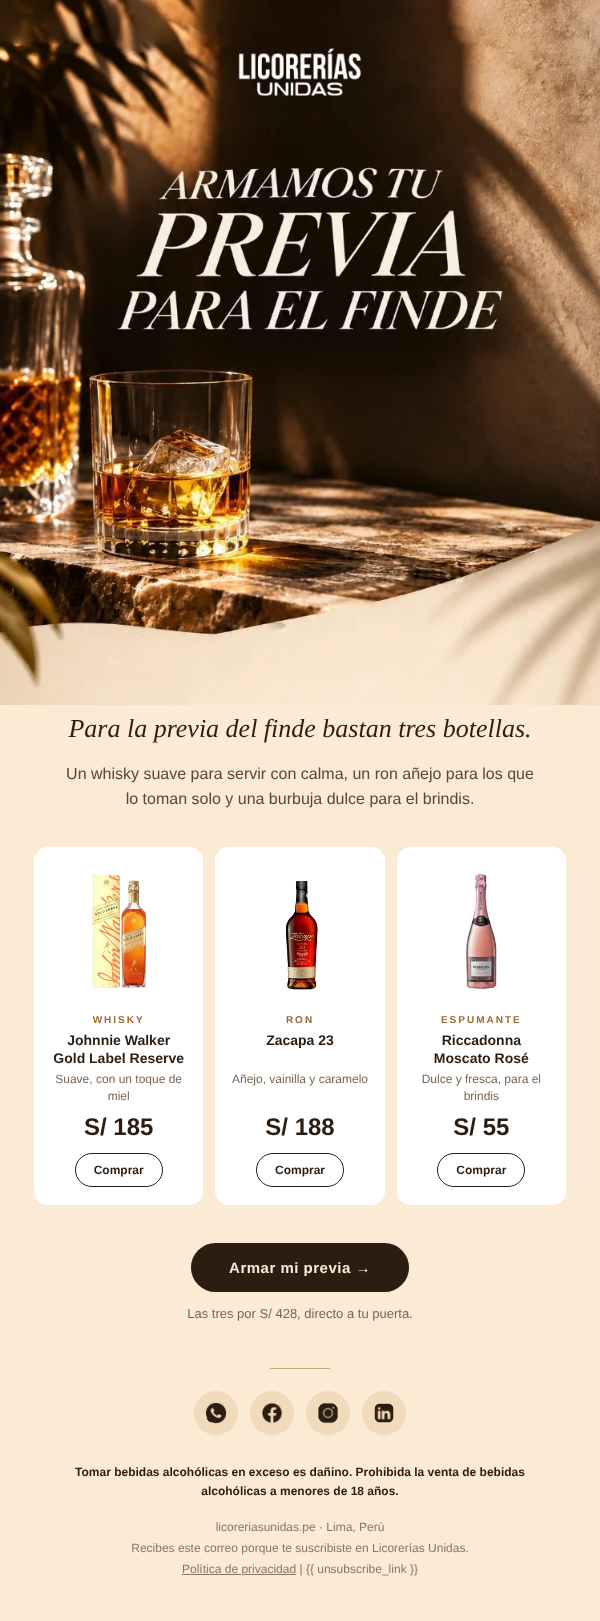
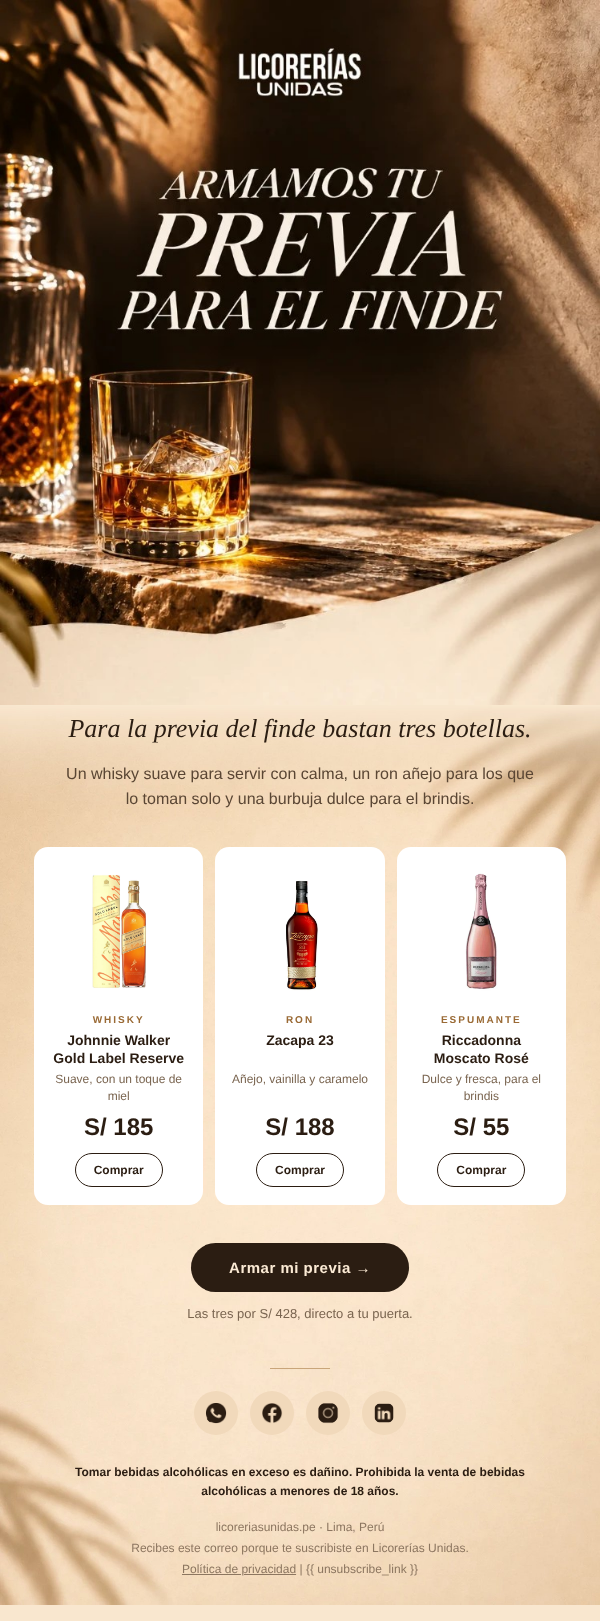
Mailing previa: fondo con sombras de palmera en el cuerpo
Claude-Session: https://claude.ai/code/session_0148WGEnZfS2ZRp3UxJqiBn1

Changed region(s): [[0.0, 0.4318, 1.0, 1.0], [0.6, 0.4627, 0.63, 0.4935]]

diff --git a/entregables/mailing_nov/2026-11-07_previa.html b/entregables/mailing_nov/2026-11-07_previa.html
@@ -6,7 +6,7 @@
 <meta name="x-apple-disable-message-reformatting">
 <title>Armamos tu previa del finde</title>
 <style>
-  body{margin:0;padding:0;background:#FBEAD4}
+  body{margin:0;padding:0;background:#F9E7CF}
   a{text-decoration:none}
   .unsub a{color:#8C7660!important;text-decoration:underline!important}
   @media (max-width:620px){
@@ -16,7 +16,7 @@
   }
 </style>
 </head>
-<body style="margin:0;padding:0;background:#FBEAD4">
+<body style="margin:0;padding:0;background:#F9E7CF">
 <div style="display:none;max-height:0;overflow:hidden;opacity:0;color:#FBEAD4">Gold Label, Zacapa 23 y Riccadonna, directo a tu puerta.&#8199;&#847;&#8199;&#847;&#8199;&#847;&#8199;&#847;</div>
 
 <table role="presentation" width="100%" cellpadding="0" cellspacing="0" border="0" style="background:#FBEAD4">
@@ -26,6 +26,9 @@
   <!-- Cabecera (PREVIA_HEADER_URL) -->
   <tr><td><a href="https://licoreriasunidas.pe/"><img src="img/previa_header.jpg" width="600" alt="Armamos tu previa para el finde" style="display:block;width:100%;max-width:600px;height:auto;border:0"></a></td></tr>
 
+  <!-- Cuerpo con fondo (PREVIA_FONDO_URL) -->
+  <tr><td background="img/previa_fondo.jpg" bgcolor="#F9E7CF" valign="top" style="background-color:#F9E7CF;background-image:url('img/previa_fondo.jpg');background-size:100% auto;background-position:top center;background-repeat:no-repeat">
+  <table role="presentation" width="100%" cellpadding="0" cellspacing="0" border="0">
   <!-- Intro -->
   <tr><td class="px" align="center" style="padding:8px 64px 0;font-family:Georgia,'Times New Roman',serif;font-size:26px;line-height:32px;color:#2B1D12;font-style:italic">
     Para la previa del finde bastan tres botellas.
@@ -98,6 +101,9 @@
     licoreriasunidas.pe · Lima, Perú<br>
     Recibes este correo porque te suscribiste en Licorerías Unidas.<br>
     <a href="https://licoreriasunidas.pe/policies/privacy-policy" style="color:#8C7660;text-decoration:underline">Política de privacidad</a> | <span class="unsub" style="color:#8C7660">{{ unsubscribe_link }}</span>
+  </td></tr>
+
+  </table>
   </td></tr>
 
 </table>
